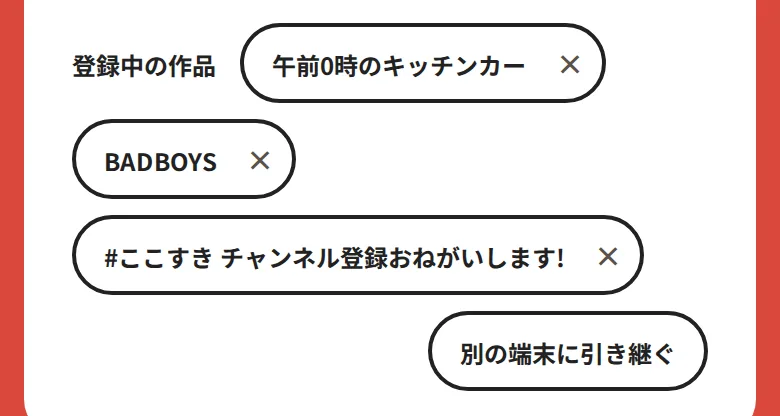
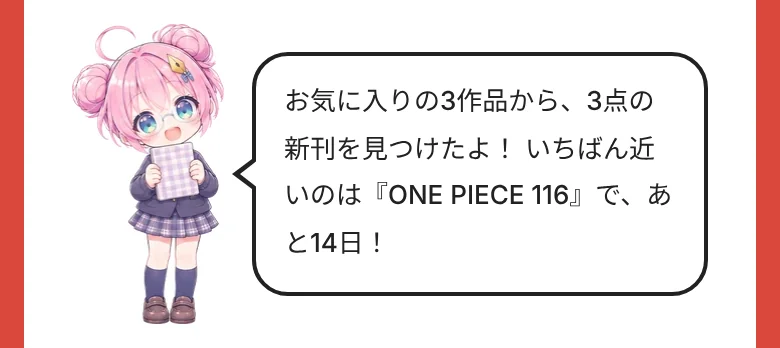
お気に入りのページの「登録中の作品」の一覧をなくし、使い方のページの画面写真と説明を直す
Claude-Session: https://claude.ai/code/session_0179GcvuKvMQPdA4ff9PfyHk

Changed region(s): [[0.0923, 0.0575, 0.9231, 0.9483], [0.9538, 0.977, 0.9846, 1.0], [0.0308, 0.977, 0.0615, 1.0]]

diff --git a/templates/guide.html b/templates/guide.html
@@ -96,9 +96,10 @@
 <section id="favorites" class="doc__section">
 <h2 class="doc__title">お気に入りを使う</h2>
 <div class="doc__media">
-<figure class="doc__figure"><img src="{{ root }}assets/img/guide/favorites_list.webp" alt="登録中の作品" class="doc__image" loading="lazy"><figcaption class="doc__caption">登録中の作品と「別の端末に引き継ぐ」ボタン</figcaption></figure>
+<figure class="doc__figure"><img src="{{ root }}assets/img/guide/favorites_list.webp" alt="お気に入りの新刊を知らせるこはる" class="doc__image" loading="lazy"><figcaption class="doc__caption">お気に入りの作品の新刊を、こはるが知らせてくれます</figcaption></figure>
 <div class="doc__body">
 <p class="doc__text">作品のページや本のページの「お気に入りに追加」を押すと、その作品が<a href="{{ root }}favorites/" class="doc__link">お気に入り</a>に入ります。お気に入りのページでは、登録した作品の新刊をまとめて見られます。会員登録はいりません。</p>
+<p class="doc__text">お気に入りから外すときは、作品のページで「お気に入り登録済み」をもう一度押してください。</p>
 </div>
 </div>
 <div class="doc__media">

diff --git a/static/js/favorites.js b/static/js/favorites.js
@@ -110,30 +110,9 @@ $('[data-fav-nemu-text]').textContent = text;
 
 function render() {
 var favs = load();
-$$('.fav_chip', listBox).forEach(function (el) { el.remove(); });
+// 登録中の作品の一覧は出さない（数が多くなると見にくいため。お気に入りから外すのは作品のページで行う。2026-11-21 運営者の判断）
 listBox.hidden = favs.length === 0;
 updateTransfer();
-favs.forEach(function (f) {
-var wrap = document.createElement('span');
-wrap.className = 'fav_chip';
-var a = document.createElement('a');
-a.href = f.url;
-a.className = 'fav_chip__link';
-a.textContent = f.name;
-var x = document.createElement('button');
-x.type = 'button';
-x.className = 'fav_chip__remove';
-x.setAttribute('aria-label', f.name + 'をお気に入りから外す');
-x.textContent = '×';
-x.addEventListener('click', function () {
-save(load().filter(function (g) { return String(g.id) !== String(f.id); }));
-if (window.NewComicsTrack) window.NewComicsTrack('favorite', { fav_action: 'remove' });
-render();
-});
-wrap.appendChild(a);
-wrap.appendChild(x);
-listBox.insertBefore(wrap, $('[data-fav-transfer-open]'));
-});
 booksBox.textContent = '';
 if (!items) return;
 var ids = favs.map(function (f) { return String(f.id); });

diff --git a/static/css/style.css b/static/css/style.css
@@ -760,9 +760,6 @@ input:focus,select:focus,button:focus-visible,a:focus-visible{outline:2px solid 
 .calendar_add__title{font-size:13px;font-weight:900}
 .calendar_add__links{display:flex;flex-wrap:wrap;gap:8px}
 .chip_link--button{box-sizing:content-box;background:#FFFFFF;font-family:inherit;color:#222222;cursor:pointer}
-.fav_chip{display:inline-flex;align-items:center;min-height:36px;border:2px solid #222222;border-radius:999px;background:#FFFFFF;overflow:hidden}
-.fav_chip__link{padding:0 6px 0 14px;font-size:12px;font-weight:700;text-decoration:none}
-.fav_chip__remove{min-width:32px;min-height:32px;border:0;background:none;font-family:inherit;font-size:14px;font-weight:700;cursor:pointer;color:#5A5148}
 .fav_changes{margin:14px 0 6px;padding:12px 16px 4px;border:2px solid #B5302A;border-radius:14px}
 .fav_import{margin:16px 0 0;padding:14px 16px;border:2px solid #222222;border-radius:14px;background:#FFF6EC}
 .fav_import__text{margin:0 0 10px;font-size:13px;font-weight:700;line-height:1.7}

diff --git a/templates/favorites.html b/templates/favorites.html
@@ -16,7 +16,6 @@
 </div>
 </div>
 <div class="filter" data-fav-list hidden>
-<span class="filter__label">登録中の作品</span>
 <button type="button" class="chip_link chip_link--button fav_transfer__open" aria-haspopup="dialog" data-fav-transfer-open>別の端末に引き継ぐ</button>
 </div>
 <div class="alarm_dialog__backdrop" data-fav-transfer-close hidden></div>

diff --git a/tools/guide_shots.py b/tools/guide_shots.py
@@ -147,7 +147,7 @@ def main():
         page.evaluate("f => localStorage.setItem('nc_favorites', JSON.stringify(f))", favs)
         page.reload(wait_until="networkidle")
         page.wait_for_timeout(1200)
-        shot(page, "favorites_list", "[data-fav-list]")
+        shot(page, "favorites_list", "[data-fav-nemu]", until="[data-fav-books] > li:first-child")
         if page.locator("[data-fav-changes]:not([hidden])").count():
             shot(page, "favorites_changes", "[data-fav-changes]", until="[data-fav-books] > li:first-child")
         page.click("[data-fav-transfer-open]")
